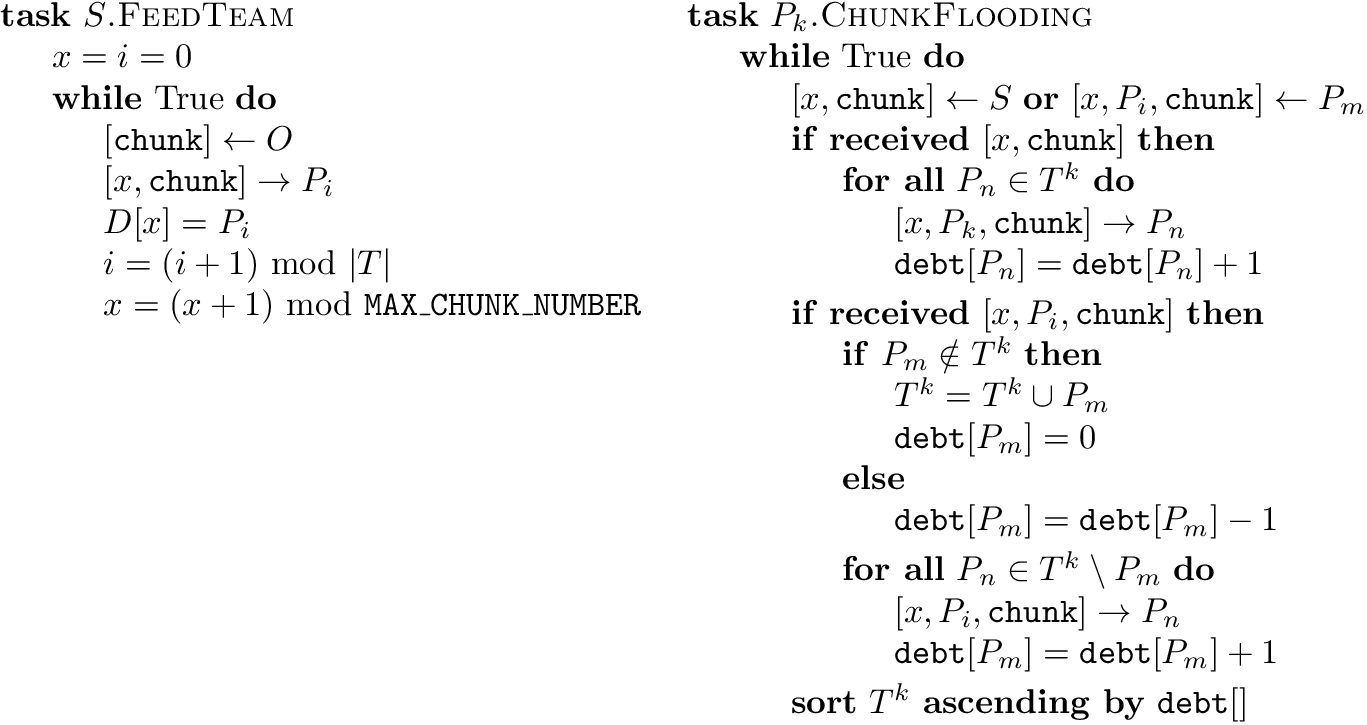
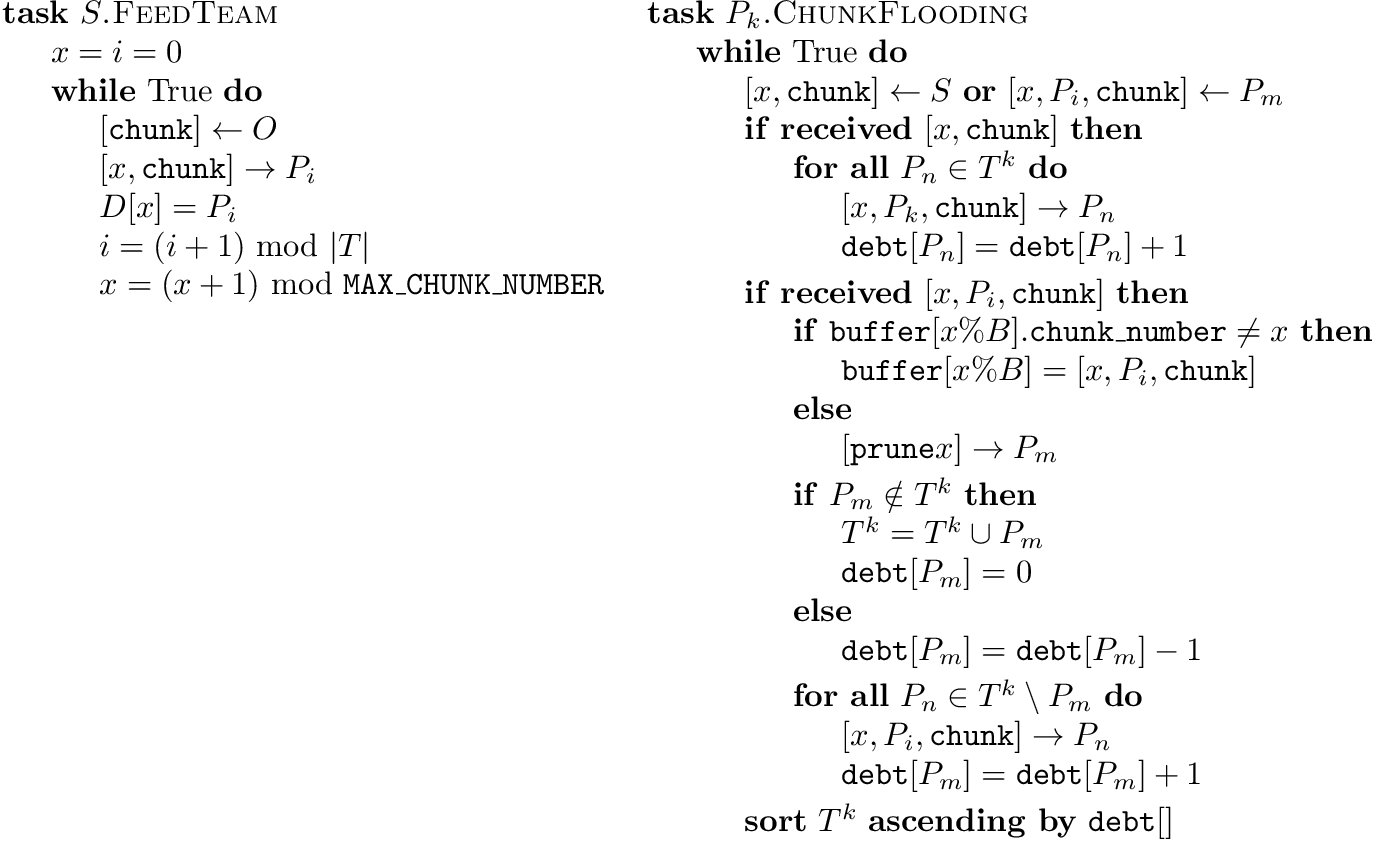
.

diff --git a/index.html b/index.html
@@ -24,7 +24,7 @@ src="http://cdn.mathjax.org/mathjax/latest/MathJax.js?config=TeX-AMS-MML_HTMLorM
  <div class="author" ><span 
 class="ecrm-1200">The P2PSP team</span></div><br />
 <div class="date" ><span 
-class="ecrm-1200">August 4, 2018</span></div>
+class="ecrm-1200">August 5, 2018</span></div>
    </div>
    <h3 class="likesectionHead"><a 
  id="x1-1000"></a>Contents</h3>

diff --git a/graphics/peer_chunk_flooding.tex b/graphics/peer_chunk_flooding.tex
@@ -23,6 +23,11 @@
   \EndFor
   \EndIf
   \If{\textbf{received}~$[x,P_i,\mathtt{chunk}]$}
+  \If{$\mathtt{buffer}[x \% B].\mathtt{chunk\_number} \neq x$}
+  \State $\mathtt{buffer}[x \% B] = [x,P_i,\mathtt{chunk}]$
+  \Else
+  \State $[\mathtt{prune} x] \sendto P_m$
+  \EndIf
   \If{$P_m \notin T^k$}
   \State $T^k = T^k \cup P_m$
   \State $\mathtt{debt}[P_m]=0$
